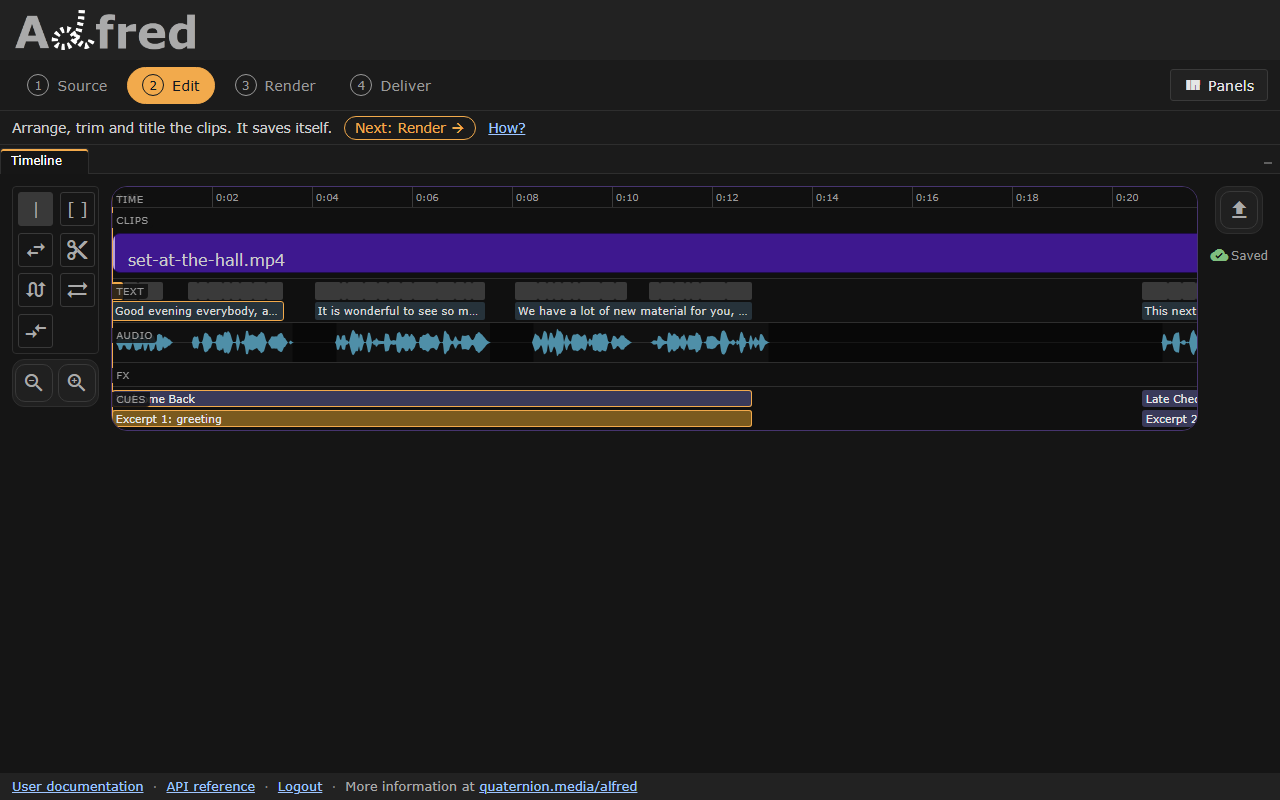
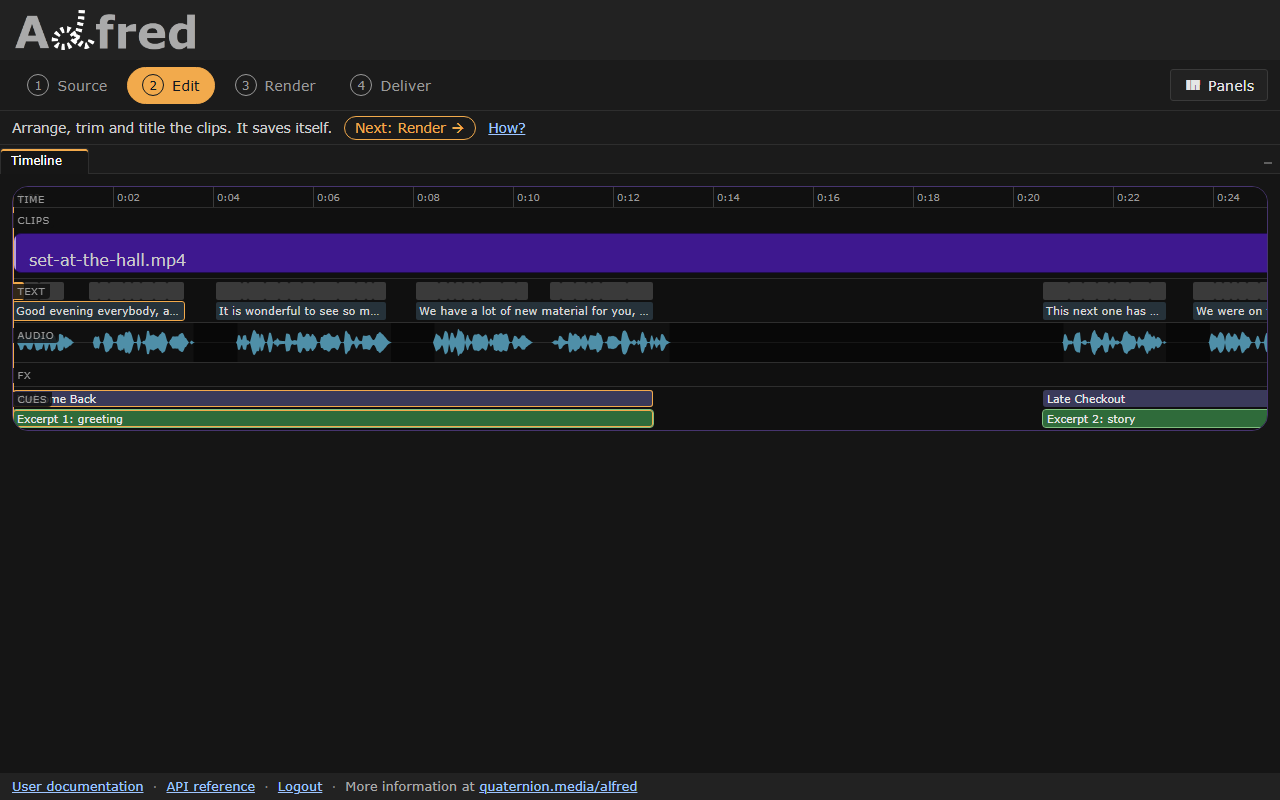
The excerpt run is walked to its end on the live stack, and the journey's pictures show the excerpts delivered

diff --git a/handbook/handoffs/the-video-journey.md b/handbook/handoffs/the-video-journey.md
@@ -240,18 +240,33 @@ arrangement from before the split gives way to the default once, which is
 the existing rule for an arrangement lacking a panel the editor cannot do
 without, and the live editor showed the eleven tabs after one reload.
 
-**Not run.** An excerpt approved from its link and delivered to `local`,
-which waits on the queue's answers; alfred's site built with mkdocs, whose
-nav and links the suite's docs rules check in its place.
+**The run, walked to its end.** The queue's fourteen requests were answered
+`approve` with `uv run qmcp human respond`, each as the run put it up. The
+seven spans were rendered by alfred's worker at 1920 by 1080 with their
+captions burned in, 2 to 7 each; the first was reported rendered after 293
+seconds of following and the rest within 45 and then at once, the worker
+having rendered them while the first was followed. Each was put to the
+queue with its link and approved, and each delivered to `local`: seven
+files in alfred's `deliveries/`, named by render id, 10 to 18 seconds long.
+The run's last line counts 7 offered, 7 approved, 7 rendered, 7 approved as
+excerpts, 7 delivered; the project's cues read back with every excerpt
+`delivered` and its render id as `ref`; the editor's Deliver stage lists
+each as `delivered → local`, and its Cues lane draws the seven green, which
+`docs/journeys/pictures/editor-lanes.png` and `editor-deliver.png` show.
+The run before it, whose request outlived its review timeout, is no longer
+on the queue.
+
+**Not run.** alfred's site built with mkdocs, whose nav and links the
+suite's docs rules check in its place.
 
 ## 3. What remains, and what done looks like
 
-- **(a) Against a live alfred.** Run, as §2 says, to the first question on
-  the queue, with one excerpt rendered by alfred's worker through the tools.
-  What remains is a span approved on the queue, its excerpt approved from its
-  link and delivered to `local`, which is a person's answers; and `./al family
-  smoke` extended to call `alfred_project` and to analyse a library file with
-  sound wherever it sorts.
+- **(a) Against a live alfred.** Run to its end, as §2 says: every span
+  approved on the queue, rendered, approved from its link and delivered to
+  `local`. What remains is `./al family smoke` extended to call
+  `alfred_project` and to analyse a library file with sound wherever it
+  sorts, and a run answered by a person reading each excerpt rather than
+  approving them all.
 - **(b) The sound in the proposal.** alfred serves the engine's analysis of a
   library file, its silences, loudness and tempo, at `GET /media/{name}/audio`
   (alfred's `docs/captions.md`, *Analysing library media*), and qmcp has no

diff --git a/docs/journeys/cut-a-recording-by-what-is-said.md b/docs/journeys/cut-a-recording-by-what-is-said.md
@@ -76,9 +76,9 @@ or by voice through joe's Voice window, which speaks a shorter form of each. App
 
 <figure class="qm-shot" markdown>
 
-![The editor's timeline with the chapters and excerpts the harness proposed drawn in the Cues lane under the clips, the words and the sound, one excerpt waiting on the queue](pictures/editor-lanes.png)
+![The editor's timeline with the chapters and excerpts the harness proposed drawn in the Cues lane under the clips, the words and the sound, every excerpt delivered](pictures/editor-lanes.png)
 
-<figcaption><strong>The proposal on the timeline.</strong> The Cues lane draws each chapter and each excerpt where it falls, coloured by where it stands on the queue; the lanes above it are the words and the sound at the same seconds.</figcaption>
+<figcaption><strong>The proposal on the timeline.</strong> The Cues lane draws each chapter and each excerpt where it falls, coloured by where it stands, here delivered; the lanes above it are the words and the sound at the same seconds.</figcaption>
 
 </figure>
 
@@ -90,9 +90,9 @@ Each approved span is rendered as an excerpt of its own, cut from the timeline w
 
 <figure class="qm-shot" markdown>
 
-![The Deliver stage listing an excerpt named for the project and its span, rendered, with Download and Deliver beside it](pictures/editor-deliver.png)
+![The Deliver stage listing the excerpts, each named for the project and its span, rendered and delivered to local, with Download beside each](pictures/editor-deliver.png)
 
-<figcaption><strong>An excerpt on Deliver.</strong> Named for the project and the span, described by its place in the recording.</figcaption>
+<figcaption><strong>The excerpts on Deliver.</strong> Each named for the project and the span, described by its place in the recording, and delivered.</figcaption>
 
 </figure>
 

diff --git a/perspectives/2026-11-19-the-video-journey.md b/perspectives/2026-11-19-the-video-journey.md
@@ -174,9 +174,13 @@ library the page had listed before the file went up.
 
 ## The journey is longer than the slice
 
-Nothing here has been rendered by alfred's worker: Docker Desktop was down,
-so the steps were driven as functions, the way the walkthrough drives them,
-against joe and otto alone. The flow reaches a live alfred through tools that
-already drive it, and the handoff's first item is that run. After it, the
-sound in the proposal, the editor showing what was proposed, and an excerpt as a
-project of its own are each a decision by the seam rule before they are code.
+The first run of the session rendered nothing with alfred's worker: Docker
+Desktop was down, so the steps were driven as functions, the way the
+walkthrough drives them, against joe and otto alone. With the stack up the
+flow reached a live alfred through the tools that already drive it, and at
+the session's end a run was walked to its last line, every excerpt approved
+twice and delivered. That walk approved everything, which proves the path
+and not the judgement; a person reading each excerpt is the run that would.
+After it, the sound in the proposal, a selection rendered from the editor,
+and an excerpt as a project of its own are each a decision by the seam rule
+before they are code.

diff --git a/handbook/handoffs/qm-queue.md b/handbook/handoffs/qm-queue.md
@@ -618,11 +618,11 @@ re-checked and is re-derived before anyone acts on it.
   (2026-11-03)
 - **The excerpt flow against a live alfred.** `qmcp`'s `feat/alfred-excerpts`
   carries the `alfred-excerpts` recipe, its tools, tests and walkthrough, run
-  against a live alfred to its first question on the queue, with one excerpt
-  rendered by alfred's worker and the proposal drawn on the editor's timeline
-  as cues, in the lanes `alfred`'s `feat/synced-timeline` adds. Done is a
-  person's answers on that queue, then
-  [`the-video-journey.md`](the-video-journey.md) §3 (b) to (e), (g) and (h)
+  against a live alfred to its end: seven excerpts approved on the queue,
+  rendered by alfred's worker, approved from their links and delivered to
+  `local`, with the proposal drawn on the editor's timeline as cues, in the
+  lanes `alfred`'s `feat/synced-timeline` adds. Done is
+  [`the-video-journey.md`](the-video-journey.md) §3 (a) to (e), (g) and (h)
   each as a record or a pull request of its own, and (f) once *keep
   everything local* is lifted. (2026-11-19)
 
